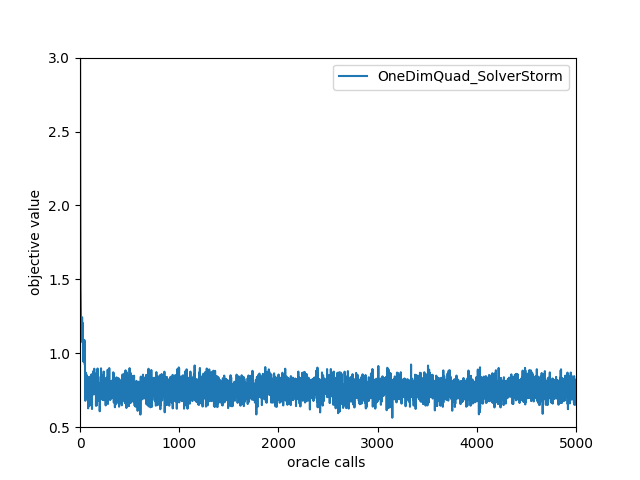
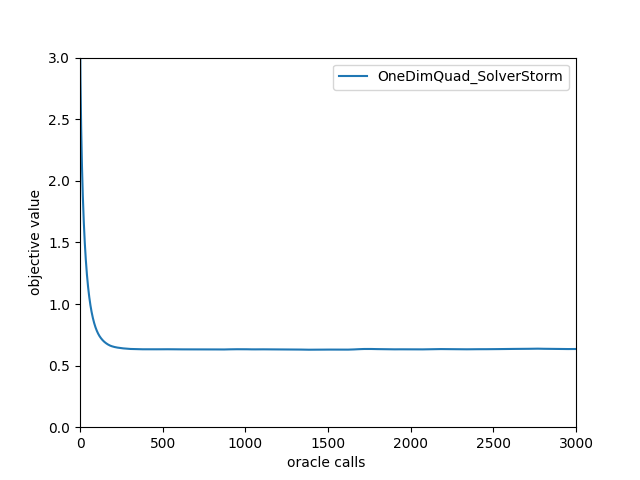
plot new values

diff --git a/optimization/TestMain.py b/optimization/TestMain.py
@@ -23,7 +23,7 @@ from optimization.solvers.SubProblemCubicNewton import SubProblemCubicNewton
 plot_names = []
 
 
-def plot_objectiveValue_log(objective_values, plot_name):
+def plot_objective_value(objective_values, plot_name):
     if not cumulative:
         plt.clf()
     else:
@@ -41,20 +41,18 @@ def plot_objectiveValue_log(objective_values, plot_name):
         plt.savefig("plots/" + plot_name)
 
 
-def plot_grad_log(grad_norm, plot_name):
+def plot_log(values, y_label, plot_name):
     if not cumulative:
         plt.clf()
     else:
         plot_names.append(plot_name)
 
-    plt.plot(range(len(grad_norm)),
-             grad_norm)
-
+    plt.plot(range(len(values)),
+             values)
     plt.ylim([0, high_bound_y])
     plt.xlabel('iteration')
-    plt.ylabel('Norm')
-
-    plt.legend(["grad_norm",], loc='upper right')
+    plt.ylabel(y_label)
+    plt.legend([plot_name,], loc='upper right')
     if not cumulative:
         plt.savefig("plots/" + plot_name)
 
@@ -90,7 +88,7 @@ def test_01():
                                     max_iter=2000, ro=0.1, l=2, epsilon=1e-4, n1=500, n2=500)
     thetas = ms.run(np.random.RandomState(seed=42).rand(1))
     # plot the objective value list
-    plot_objectiveValue_log(oracle.objective_values, "OneDimQuad_SolverCubicNewtonMiniBatch")
+    plot_objective_value(oracle.objective_values, "OneDimQuad_SolverCubicNewtonMiniBatch")
     print("best parameters", thetas, '\n')
 
 
@@ -109,18 +107,22 @@ def test_02():
 def test_03():
     print("running test 3...")
     oracle = MeanOracle(objective_function=OneDimQuad(), )
-    ms = SolverSGD(oracle=oracle, max_iter=100000, n1=1)
+    ms = SolverSGD(oracle=oracle, max_iter=4000, n1=1)
     thetas = ms.run(np.random.RandomState(seed=45).rand(1))
-    plot_objectiveValue_log(oracle.objective_values, "OneDimQuad_SolverSGD")
+    # plot_objective_value(oracle.objective_values, "OneDimQuad_SolverSGD")
+    # plot_log(oracle.norm_of_gradients, "gradient norm", "normOfGradOneDimQuad_SolverSGD")
+    plot_log(oracle.norm_of_grad_diff, "grads diff norm", "normOfDiffOneDimQuad_SolverSGD")
     print("best parameters", thetas, '\n')
 
 
 def test_04():
     print("running test 4...")
-    oracle = StormOracle(objective_function=OneDimQuad(), k=1e-1, c_factor=100, )
-    ms = SolverStorm(oracle=oracle, max_iter=100000, )
+    oracle = StormOracle(objective_function=OneDimQuad(), k=0.05, c_factor=100, )
+    ms = SolverStorm(oracle=oracle, max_iter=4000, )
     thetas = ms.run(np.random.RandomState(seed=45).rand(1))
-    plot_objectiveValue_log(oracle.objective_values, "OneDimQuad_SolverStorm")
+    # plot_objective_value(oracle.objective_values, "OneDimQuad_SolverStorm")
+    # plot_log(oracle.norm_of_gradients, "gradient norm", "normOfGradOneDimQuad_SolverStorm")
+    plot_log(oracle.norm_of_grad_diff, "grads diff norm", "normOfDiffOneDimQuad_SolverStorm")
     print("best parameters", thetas, '\n')
 
 
@@ -132,7 +134,7 @@ def test_05():
     ms = SolverCubicNewtonMiniBatch(sub_solver=gd_solver, oracle=oracle,
                                     max_iter=60000, ro=1, l=100, epsilon=1e-4, n1=100, n2=100)
     thetas = ms.run(np.random.RandomState(seed=45).rand(2))
-    plot_objectiveValue_log(oracle.objective_values, "WLooking_SolverCubicNewtonMiniBatch")
+    plot_objective_value(oracle.objective_values, "WLooking_SolverCubicNewtonMiniBatch")
     print("best parameters", thetas, '\n')
 
 
@@ -145,7 +147,7 @@ def test_06():
     objective_values = oracle.objective_values
 
     # plot the objective value list
-    plot_objectiveValue_log(oracle.objective_values, "WLooking_SolverSGD")
+    plot_objective_value(oracle.objective_values, "WLooking_SolverSGD")
     plt.savefig("plots/WLooking_SolverSGD")
     print("best parameters", thetas, '\n')
 
@@ -154,30 +156,31 @@ def test_07():
     print("running test 7...")
 
     oracle = MeanOracle(objective_function=OneDimQuad(), )
-    ms = GradientLeastSquares(oracle=oracle, j1=1, j2=1, l=1, alpha=0.99, max_iter=4000, lr=1e-3 )
-    thetas, estimated_grads, true_grads = ms.run(np.random.RandomState(seed=45).rand(1))
+    ms = GradientLeastSquares(oracle=oracle, j1=1, j2=1, l=1, alpha=0.7, max_iter=4000, lr=1e-3 )
+    thetas = ms.run(np.random.RandomState(seed=45).rand(1))
 
     # plot the objective value list
-    plot_objectiveValue_log(oracle.objective_values, "OneDimQuad_GradientLeastSquares")
-    plot_grad_log(oracle.estimated_norm_gradients, "normOneDimQuad_GradientLeastSquares" )
+    # plot_objective_value(oracle.objective_values, "OneDimQuad_GradientLeastSquares")
+    # plot_log(oracle.norm_of_gradients, "gradient norm", "normOfGradOneDimQuad_GradientLeastSquares")
+    plot_log(oracle.norm_of_grad_diff, "grads diff norm", "normOfDiffOneDimQuad_GradientLeastSquares")
 
     # plot_grad_log_tt(estimated_grads, true_grads, "gradOneDimQuad_GradientLeastSquares" )
     print("best parameters", thetas, '\n')
 
 
-cumulative = False
-high_bound_x = 5000
+cumulative = True
+high_bound_x = 3000
 high_bound_y = 3
 low_bound_x = -1
 low_bound_y = 0
 
 # test_01()
-# test_03()
-# test_04()
+test_03()
+test_04()
 # test_05()
 # test_06()
 test_07()
 
 if cumulative:
     plt.legend(plot_names, loc='upper right')
-    plt.savefig("plots/" + '-'.join(plot_names))
+    plt.savefig("plots/" + 'final_values')

diff --git a/optimization/oracles/StormOracle.py b/optimization/oracles/StormOracle.py
@@ -27,12 +27,17 @@ class StormOracle(StochasticOracle):
         self.sqr_grads_norms = 0
         self.d = None
         self.eta = k / (w ** (1 / 3))
+        self.x_t_1=None
+
 
         super().__init__(objective_function, 0)
 
     def compute_oracle(self, x_t, **kwargs):
         objective_value = self.objective_function.forward(x_t, self.s1).mean(axis=0)
         gradient = self.objective_function.gradient(x_t, self.s1).mean(axis=0).reshape(-1)
+        if self.x_t_1 is not None:
+            last_point_gradient = self.objective_function.gradient(self.x_t_1, self.s1).mean(axis=0).reshape(-1)
+        self.x_t_1=x_t
 
         # Storing all gradients in a list
         self.grads.append(gradient)
@@ -44,7 +49,7 @@ class StormOracle(StochasticOracle):
         if self.d is None:
             # Updating learning rate('η' in paper)
             power = 1.0 / 3.0
-            scaling = np.power((0.1 + self.sqr_grads_norms), power)
+            scaling = np.power((self.w + self.sqr_grads_norms), power)
             self.eta = self.k / (float)(scaling)
             # Storing the momentum term
             self.d = self.grads[-1]
@@ -56,6 +61,6 @@ class StormOracle(StochasticOracle):
             scaling = np.power((0.1 + self.sqr_grads_norms), power)
             self.eta = self.k / (float)(scaling)
             # Storing the momentum term(d'=∇f(x',ε')+(1-a')(d-∇f(x,ε')))
-            self.d = self.grads[-1] + (1 - a) * (self.d - self.grads[-2])
+            self.d = self.grads[-1] + (1 - a) * (self.d - last_point_gradient)
 
         return objective_value, self.d, None, self.eta

diff --git a/optimization/utils/StochasticOracle.py b/optimization/utils/StochasticOracle.py
@@ -29,7 +29,9 @@ class StochasticOracle(ABC):
         self.n1 = None
         self.n2 = None
         self.objective_values = []
-        self.estimated_norm_gradients = []
+        self.norm_of_gradients = []
+        self.norm_of_grad_diff = []
+
 
     def set_oracle_sample_size(self,
                                n1: int,
@@ -67,6 +69,10 @@ class StochasticOracle(ABC):
             raise ValueError('Please set oracle sample size n1 and n2!')
 
         self.s1, self.s2 = self.objective_function.get_samples(self.n1, self.n2)
-        tem_s1, _ = self.objective_function.get_log_samples(100, 0)
-        self.estimated_norm_gradients += [np.linalg.norm(self.objective_function.gradient(x_t, tem_s1).mean(axis=0), ord=2)] * (self.n1+self.n2)
+        tem_s1, _ = self.objective_function.get_log_samples(50, 0)
         self.objective_values += [self.objective_function.forward(x_t, tem_s1).mean(axis=0)] * (self.n1+self.n2)
+        # self.estimated_norm_gradients += [np.linalg.norm(self.objective_function.gradient(x_t, tem_s1).mean(axis=0), ord=2)] * (self.n1+self.n2)
+
+    def log_gradient(self, x_t, delta):
+        self.norm_of_gradients.append(np.linalg.norm(delta, ord=2))
+        self.norm_of_grad_diff.append(np.linalg.norm(delta-self.objective_function.true_gradient(x_t), ord=2))

diff --git a/optimization/solvers/GradientLeastSquares.py b/optimization/solvers/GradientLeastSquares.py
@@ -54,8 +54,6 @@ class GradientLeastSquares(Solver):
 
     def run(self, x_t, **kwargs):
         print("GradientLeastSquares optimizing... ")
-        grads = []
-        true_grad = []
         for i in range(self.max_iter):
 
             x_js = self.get_x_js(x_t)
@@ -86,8 +84,7 @@ class GradientLeastSquares(Solver):
             # Train the model using the training sets
             # regr.fit(A, b)
             delta = np.linalg.lstsq(A, b, rcond=None)[0]
-            grads.append(np.abs(delta[0]))
-            true_grad.append(2 * x_t[0] + 1)
+            self.oracle.log_gradient(x_t,delta)
 
             x_t = x_t - self.lr * delta
-        return x_t, grads, true_grad
+        return x_t

diff --git a/optimization/solvers/SolverStorm.py b/optimization/solvers/SolverStorm.py
@@ -19,6 +19,7 @@ class SolverStorm(Solver):
         for i in range(self.max_iter):
             self.oracle.update_sample(x_t)
             objective_value, g_t, _, eta = self.oracle.compute_oracle(x_t, )
+            self.oracle.log_gradient(x_t,g_t)
             x_t = x_t - eta * g_t
 
         return x_t

diff --git a/optimization/solvers/SolverSGD.py b/optimization/solvers/SolverSGD.py
@@ -26,5 +26,6 @@ class SolverSGD(Solver):
         for i in range(self.max_iter):
             self.oracle.update_sample(x_t)
             objective_value, g_t, _, _ = self.oracle.compute_oracle(x_t, )
+            self.oracle.log_gradient(x_t,g_t)
             x_t = x_t - self.lr * g_t
         return x_t

diff --git a/optimization/test_modules.py b/optimization/test_modules.py
@@ -102,6 +102,9 @@ class OneDimQuad(ObjectiveFunction):
         self.log_s2 = np.random.RandomState(seed=56).normal(1, 2, (n2, self.get_sample_dim()))
         return self.log_s1, self.log_s2
 
+    def true_gradient(self, x):
+        return  2*x[0] + 1
+
 
 class ThreeDimQuad(ObjectiveFunction):
 
